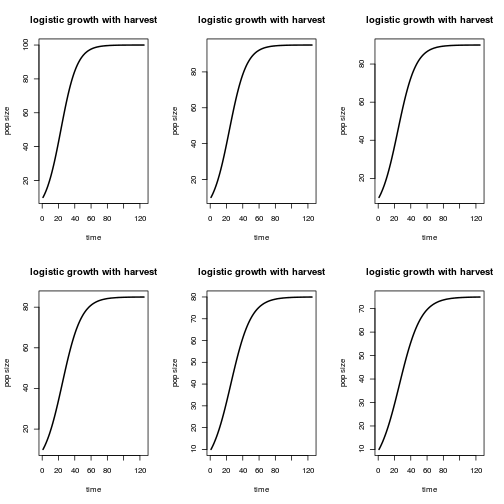
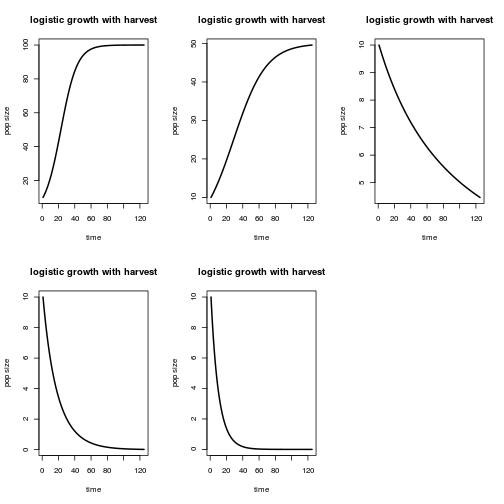
cleaning up 18 Sept attempt on harvest problem

diff --git a/lloyd_smith/exercises.md b/lloyd_smith/exercises.md
@@ -386,7 +386,7 @@ Assess sensitivity of the model to values of `h`:
 
 ```r
 parameters <- c(rr = 0.1, kk = 100, hh = 0.01 )
-
+hhs <- seq(from = 0, to = 0.2, by = 0.05)
 par(mfrow = c(2,3))
 for (ii in hhs) {
   parameters["hh"] <- ii
@@ -396,7 +396,7 @@ for (ii in hhs) {
 }
 ```
 
-![plot of chunk unnamed-chunk-12](figure/unnamed-chunk-12-1.png) ![plot of chunk unnamed-chunk-12](figure/unnamed-chunk-12-2.png) ![plot of chunk unnamed-chunk-12](figure/unnamed-chunk-12-3.png) ![plot of chunk unnamed-chunk-12](figure/unnamed-chunk-12-4.png) ![plot of chunk unnamed-chunk-12](figure/unnamed-chunk-12-5.png) ![plot of chunk unnamed-chunk-12](figure/unnamed-chunk-12-6.png) ![plot of chunk unnamed-chunk-12](figure/unnamed-chunk-12-7.png) 
+![plot of chunk unnamed-chunk-12](figure/unnamed-chunk-12-1.png) 
 
 
 
@@ -405,23 +405,18 @@ for (ii in hhs) {
 sensitiv_harvest <- function(hh){
   parameters["hh"] <- hh
   temp <- lsoda(init, tseq, logGrowthHarvestODE, parameters)
-  plot(y = temp[, 2], x = temp[, 1], main = "logistic growth with harvest", lwd = 2, type = "l", ylab = "pop size", xlab = "time")
+  # plot(y = temp[, 2], x = temp[, 1], main = "logistic growth with harvest", lwd = 2, type = "l", ylab = "pop size", xlab = "time")
   return(temp[,2])
 }
 
 # make a vector of hhs and run model over it
-hhs <- seq(from = 0, to = 0.2, by = 0.005)
 sensitivity_to_h <- sapply(hhs, function(x) sensitiv_harvest(x))
-```
 
-![plot of chunk unnamed-chunk-13](figure/unnamed-chunk-13-1.png) ![plot of chunk unnamed-chunk-13](figure/unnamed-chunk-13-2.png) ![plot of chunk unnamed-chunk-13](figure/unnamed-chunk-13-3.png) ![plot of chunk unnamed-chunk-13](figure/unnamed-chunk-13-4.png) ![plot of chunk unnamed-chunk-13](figure/unnamed-chunk-13-5.png) ![plot of chunk unnamed-chunk-13](figure/unnamed-chunk-13-6.png) ![plot of chunk unnamed-chunk-13](figure/unnamed-chunk-13-7.png) ![plot of chunk unnamed-chunk-13](figure/unnamed-chunk-13-8.png) ![plot of chunk unnamed-chunk-13](figure/unnamed-chunk-13-9.png) ![plot of chunk unnamed-chunk-13](figure/unnamed-chunk-13-10.png) ![plot of chunk unnamed-chunk-13](figure/unnamed-chunk-13-11.png) ![plot of chunk unnamed-chunk-13](figure/unnamed-chunk-13-12.png) ![plot of chunk unnamed-chunk-13](figure/unnamed-chunk-13-13.png) ![plot of chunk unnamed-chunk-13](figure/unnamed-chunk-13-14.png) ![plot of chunk unnamed-chunk-13](figure/unnamed-chunk-13-15.png) ![plot of chunk unnamed-chunk-13](figure/unnamed-chunk-13-16.png) ![plot of chunk unnamed-chunk-13](figure/unnamed-chunk-13-17.png) ![plot of chunk unnamed-chunk-13](figure/unnamed-chunk-13-18.png) ![plot of chunk unnamed-chunk-13](figure/unnamed-chunk-13-19.png) ![plot of chunk unnamed-chunk-13](figure/unnamed-chunk-13-20.png) ![plot of chunk unnamed-chunk-13](figure/unnamed-chunk-13-21.png) ![plot of chunk unnamed-chunk-13](figure/unnamed-chunk-13-22.png) ![plot of chunk unnamed-chunk-13](figure/unnamed-chunk-13-23.png) ![plot of chunk unnamed-chunk-13](figure/unnamed-chunk-13-24.png) ![plot of chunk unnamed-chunk-13](figure/unnamed-chunk-13-25.png) ![plot of chunk unnamed-chunk-13](figure/unnamed-chunk-13-26.png) ![plot of chunk unnamed-chunk-13](figure/unnamed-chunk-13-27.png) ![plot of chunk unnamed-chunk-13](figure/unnamed-chunk-13-28.png) ![plot of chunk unnamed-chunk-13](figure/unnamed-chunk-13-29.png) ![plot of chunk unnamed-chunk-13](figure/unnamed-chunk-13-30.png) ![plot of chunk unnamed-chunk-13](figure/unnamed-chunk-13-31.png) ![plot of chunk unnamed-chunk-13](figure/unnamed-chunk-13-32.png) ![plot of chunk unnamed-chunk-13](figure/unnamed-chunk-13-33.png) ![plot of chunk unnamed-chunk-13](figure/unnamed-chunk-13-34.png) ![plot of chunk unnamed-chunk-13](figure/unnamed-chunk-13-35.png) ![plot of chunk unnamed-chunk-13](figure/unnamed-chunk-13-36.png) ![plot of chunk unnamed-chunk-13](figure/unnamed-chunk-13-37.png) ![plot of chunk unnamed-chunk-13](figure/unnamed-chunk-13-38.png) ![plot of chunk unnamed-chunk-13](figure/unnamed-chunk-13-39.png) ![plot of chunk unnamed-chunk-13](figure/unnamed-chunk-13-40.png) ![plot of chunk unnamed-chunk-13](figure/unnamed-chunk-13-41.png) 
-
-```r
 plot(y = sensitivity_to_h[nrow(sensitivity_to_h), ], x = hhs, xlab = "h", ylab = "final population size", main = paste("r =", parameters["rr"]), type = "l", lwd = 4)
 ```
 
-![plot of chunk unnamed-chunk-13](figure/unnamed-chunk-13-42.png) 
-This makes sense - as the proportion of individuals harvested increases, the final population size decreases. 
+![plot of chunk unnamed-chunk-13](figure/unnamed-chunk-13-1.png) 
+This makes sense - as the proportion of individuals harvested increases, the final population size decreases. When h > r, the population will go to zero because more is always being harvested than the maximum possible growth rate. 
 
 
 Algebraicly, dN/dT should be 0 when `h = r(1-N/K)`. Let's confirm that this is true. **NOTE: haven't gotten anywhere with this either. Don't bother for now.**
@@ -432,48 +427,13 @@ head(sensitivity_to_h)
 ```
 
 ```
-##          [,1]     [,2]     [,3]     [,4]     [,5]     [,6]     [,7]
-## [1,] 10.00000 10.00000 10.00000 10.00000 10.00000 10.00000 10.00000
-## [2,] 10.93669 10.88243 10.82845 10.77472 10.72127 10.66807 10.61514
-## [3,] 11.94945 11.83187 11.71544 11.60015 11.48598 11.37293 11.26099
-## [4,] 13.04227 12.85150 12.66349 12.47820 12.29558 12.11561 11.93824
-## [5,] 14.21890 13.94428 13.67486 13.41057 13.15129 12.89695 12.64746
-## [6,] 15.48279 15.11287 14.75159 14.39877 14.05419 13.71770 13.38910
-##          [,8]     [,9]    [,10]    [,11]    [,12]    [,13]    [,14]
-## [1,] 10.00000 10.00000 10.00000 10.00000 10.00000 10.00000 10.00000
-## [2,] 10.56246 10.51006 10.45790 10.40601 10.35437 10.30299 10.25186
-## [3,] 11.15014 11.04038 10.93168 10.82404 10.71744 10.61191 10.50740
-## [4,] 11.76345 11.59118 11.42140 11.25408 11.08918 10.92667 10.76653
-## [5,] 12.40272 12.16264 11.92714 11.69611 11.46950 11.24722 11.02918
-## [6,] 13.06820 12.75485 12.44886 12.15005 11.85830 11.57342 11.29526
-##         [,15]    [,16]    [,17]    [,18] [,19]     [,20]     [,21]
-## [1,] 10.00000 10.00000 10.00000 10.00000    10 10.000000 10.000000
-## [2,] 10.20099 10.15036 10.09999 10.04987    10  9.950371  9.900986
-## [3,] 10.40391 10.30144 10.19995 10.09949    10  9.901476  9.803918
-## [4,] 10.60871 10.45318 10.29988 10.14886    10  9.853300  9.708727
-## [5,] 10.81532 10.60554 10.39976 10.19796    10  9.805828  9.615376
-## [6,] 11.02366 10.75848 10.49955 10.24680    10  9.759045  9.523801
-##          [,22]     [,23]     [,24]     [,25]     [,26]     [,27]     [,28]
-## [1,] 10.000000 10.000000 10.000000 10.000000 10.000000 10.000000 10.000000
-## [2,]  9.851847  9.802950  9.754303  9.705885  9.657709  9.609773  9.562077
-## [3,]  9.707309  9.611653  9.516937  9.423150  9.330282  9.238318  9.147255
-## [4,]  9.566266  9.425874  9.287524  9.151186  9.016832  8.884429  8.753953
-## [5,]  9.428583  9.245374  9.065682  8.889441  8.716586  8.547049  8.380771
-## [6,]  9.294146  9.069945  8.851070  8.637401  8.428815  8.225189  8.026413
-##          [,29]     [,30]     [,31]     [,32]     [,33]     [,34]     [,35]
-## [1,] 10.000000 10.000000 10.000000 10.000000 10.000000 10.000000 10.000000
-## [2,]  9.514617  9.467393  9.420402  9.373645  9.327119  9.280822  9.234754
-## [3,]  9.057085  8.967798  8.879385  8.791839  8.705151  8.619313  8.534316
-## [4,]  8.625376  8.498670  8.373810  8.250768  8.129518  8.010035  7.892293
-## [5,]  8.217690  8.057746  7.900880  7.747034  7.596152  7.448177  7.303054
-## [6,]  7.832374  7.642963  7.458070  7.277592  7.101425  6.929471  6.761628
-##          [,36]     [,37]     [,38]     [,39]     [,40]     [,41]
-## [1,] 10.000000 10.000000 10.000000 10.000000 10.000000 10.000000
-## [2,]  9.188914  9.143299  9.097910  9.052746  9.007805  8.963087
-## [3,]  8.450154  8.366814  8.284292  8.202580  8.121669  8.041551
-## [4,]  7.776267  7.661933  7.549266  7.438244  7.328840  7.221033
-## [5,]  7.160729  7.021150  6.884265  6.750023  6.618372  6.489265
-## [6,]  6.597801  6.437897  6.281822  6.129488  5.980807  5.835691
+##          [,1]     [,2]      [,3]      [,4]      [,5]
+## [1,] 10.00000 10.00000 10.000000 10.000000 10.000000
+## [2,] 10.93669 10.40601  9.900986  9.420402  8.963087
+## [3,] 11.94945 10.82404  9.803918  8.879385  8.041551
+## [4,] 13.04227 11.25408  9.708727  8.373810  7.221033
+## [5,] 14.21890 11.69611  9.615376  7.900880  6.489265
+## [6,] 15.48279 12.15005  9.523801  7.458070  5.835691
 ```
 
 ```r
@@ -485,10 +445,8 @@ dNdT_v_h <- function(vec) {
   x_axis_values <- parameters["rr"]*(1-vec/parameters["kk"])
   x_axis_values <- x_axis_values[2:length(x_axis_values)]
   
-  plot(x = x_axis_values, y = dNs)
+  # plot(x = x_axis_values, y = dNs)
 }
 
 placeholder <- apply(sensitivity_to_h, 1, dNdT_v_h)
 ```
-
-![plot of chunk unnamed-chunk-14](figure/unnamed-chunk-14-1.png) ![plot of chunk unnamed-chunk-14](figure/unnamed-chunk-14-2.png) ![plot of chunk unnamed-chunk-14](figure/unnamed-chunk-14-3.png) ![plot of chunk unnamed-chunk-14](figure/unnamed-chunk-14-4.png) ![plot of chunk unnamed-chunk-14](figure/unnamed-chunk-14-5.png) ![plot of chunk unnamed-chunk-14](figure/unnamed-chunk-14-6.png) ![plot of chunk unnamed-chunk-14](figure/unnamed-chunk-14-7.png) ![plot of chunk unnamed-chunk-14](figure/unnamed-chunk-14-8.png) ![plot of chunk unnamed-chunk-14](figure/unnamed-chunk-14-9.png) ![plot of chunk unnamed-chunk-14](figure/unnamed-chunk-14-10.png) ![plot of chunk unnamed-chunk-14](figure/unnamed-chunk-14-11.png) ![plot of chunk unnamed-chunk-14](figure/unnamed-chunk-14-12.png) ![plot of chunk unnamed-chunk-14](figure/unnamed-chunk-14-13.png) ![plot of chunk unnamed-chunk-14](figure/unnamed-chunk-14-14.png) ![plot of chunk unnamed-chunk-14](figure/unnamed-chunk-14-15.png) ![plot of chunk unnamed-chunk-14](figure/unnamed-chunk-14-16.png) ![plot of chunk unnamed-chunk-14](figure/unnamed-chunk-14-17.png) ![plot of chunk unnamed-chunk-14](figure/unnamed-chunk-14-18.png) ![plot of chunk unnamed-chunk-14](figure/unnamed-chunk-14-19.png) ![plot of chunk unnamed-chunk-14](figure/unnamed-chunk-14-20.png) ![plot of chunk unnamed-chunk-14](figure/unnamed-chunk-14-21.png) ![plot of chunk unnamed-chunk-14](figure/unnamed-chunk-14-22.png) ![plot of chunk unnamed-chunk-14](figure/unnamed-chunk-14-23.png) ![plot of chunk unnamed-chunk-14](figure/unnamed-chunk-14-24.png) ![plot of chunk unnamed-chunk-14](figure/unnamed-chunk-14-25.png) ![plot of chunk unnamed-chunk-14](figure/unnamed-chunk-14-26.png) ![plot of chunk unnamed-chunk-14](figure/unnamed-chunk-14-27.png) ![plot of chunk unnamed-chunk-14](figure/unnamed-chunk-14-28.png) ![plot of chunk unnamed-chunk-14](figure/unnamed-chunk-14-29.png) ![plot of chunk unnamed-chunk-14](figure/unnamed-chunk-14-30.png) ![plot of chunk unnamed-chunk-14](figure/unnamed-chunk-14-31.png) ![plot of chunk unnamed-chunk-14](figure/unnamed-chunk-14-32.png) ![plot of chunk unnamed-chunk-14](figure/unnamed-chunk-14-33.png) ![plot of chunk unnamed-chunk-14](figure/unnamed-chunk-14-34.png) ![plot of chunk unnamed-chunk-14](figure/unnamed-chunk-14-35.png) ![plot of chunk unnamed-chunk-14](figure/unnamed-chunk-14-36.png) ![plot of chunk unnamed-chunk-14](figure/unnamed-chunk-14-37.png) ![plot of chunk unnamed-chunk-14](figure/unnamed-chunk-14-38.png) ![plot of chunk unnamed-chunk-14](figure/unnamed-chunk-14-39.png) ![plot of chunk unnamed-chunk-14](figure/unnamed-chunk-14-40.png) ![plot of chunk unnamed-chunk-14](figure/unnamed-chunk-14-41.png) ![plot of chunk unnamed-chunk-14](figure/unnamed-chunk-14-42.png) ![plot of chunk unnamed-chunk-14](figure/unnamed-chunk-14-43.png) ![plot of chunk unnamed-chunk-14](figure/unnamed-chunk-14-44.png) ![plot of chunk unnamed-chunk-14](figure/unnamed-chunk-14-45.png) ![plot of chunk unnamed-chunk-14](figure/unnamed-chunk-14-46.png) ![plot of chunk unnamed-chunk-14](figure/unnamed-chunk-14-47.png) ![plot of chunk unnamed-chunk-14](figure/unnamed-chunk-14-48.png) ![plot of chunk unnamed-chunk-14](figure/unnamed-chunk-14-49.png) ![plot of chunk unnamed-chunk-14](figure/unnamed-chunk-14-50.png) ![plot of chunk unnamed-chunk-14](figure/unnamed-chunk-14-51.png) ![plot of chunk unnamed-chunk-14](figure/unnamed-chunk-14-52.png) ![plot of chunk unnamed-chunk-14](figure/unnamed-chunk-14-53.png) ![plot of chunk unnamed-chunk-14](figure/unnamed-chunk-14-54.png) ![plot of chunk unnamed-chunk-14](figure/unnamed-chunk-14-55.png) ![plot of chunk unnamed-chunk-14](figure/unnamed-chunk-14-56.png) ![plot of chunk unnamed-chunk-14](figure/unnamed-chunk-14-57.png) ![plot of chunk unnamed-chunk-14](figure/unnamed-chunk-14-58.png) ![plot of chunk unnamed-chunk-14](figure/unnamed-chunk-14-59.png) ![plot of chunk unnamed-chunk-14](figure/unnamed-chunk-14-60.png) ![plot of chunk unnamed-chunk-14](figure/unnamed-chunk-14-61.png) ![plot of chunk unnamed-chunk-14](figure/unnamed-chunk-14-62.png) ![plot of chunk unnamed-chunk-14](figure/unnamed-chunk-14-63.png) ![plot of chunk unnamed-chunk-14](figure/unnamed-chunk-14-64.png) ![plot of chunk unnamed-chunk-14](figure/unnamed-chunk-14-65.png) ![plot of chunk unnamed-chunk-14](figure/unnamed-chunk-14-66.png) ![plot of chunk unnamed-chunk-14](figure/unnamed-chunk-14-67.png) ![plot of chunk unnamed-chunk-14](figure/unnamed-chunk-14-68.png) ![plot of chunk unnamed-chunk-14](figure/unnamed-chunk-14-69.png) ![plot of chunk unnamed-chunk-14](figure/unnamed-chunk-14-70.png) ![plot of chunk unnamed-chunk-14](figure/unnamed-chunk-14-71.png) ![plot of chunk unnamed-chunk-14](figure/unnamed-chunk-14-72.png) ![plot of chunk unnamed-chunk-14](figure/unnamed-chunk-14-73.png) ![plot of chunk unnamed-chunk-14](figure/unnamed-chunk-14-74.png) ![plot of chunk unnamed-chunk-14](figure/unnamed-chunk-14-75.png) ![plot of chunk unnamed-chunk-14](figure/unnamed-chunk-14-76.png) ![plot of chunk unnamed-chunk-14](figure/unnamed-chunk-14-77.png) ![plot of chunk unnamed-chunk-14](figure/unnamed-chunk-14-78.png) ![plot of chunk unnamed-chunk-14](figure/unnamed-chunk-14-79.png) ![plot of chunk unnamed-chunk-14](figure/unnamed-chunk-14-80.png) ![plot of chunk unnamed-chunk-14](figure/unnamed-chunk-14-81.png) ![plot of chunk unnamed-chunk-14](figure/unnamed-chunk-14-82.png) ![plot of chunk unnamed-chunk-14](figure/unnamed-chunk-14-83.png) ![plot of chunk unnamed-chunk-14](figure/unnamed-chunk-14-84.png) ![plot of chunk unnamed-chunk-14](figure/unnamed-chunk-14-85.png) ![plot of chunk unnamed-chunk-14](figure/unnamed-chunk-14-86.png) ![plot of chunk unnamed-chunk-14](figure/unnamed-chunk-14-87.png) ![plot of chunk unnamed-chunk-14](figure/unnamed-chunk-14-88.png) ![plot of chunk unnamed-chunk-14](figure/unnamed-chunk-14-89.png) ![plot of chunk unnamed-chunk-14](figure/unnamed-chunk-14-90.png) ![plot of chunk unnamed-chunk-14](figure/unnamed-chunk-14-91.png) ![plot of chunk unnamed-chunk-14](figure/unnamed-chunk-14-92.png) ![plot of chunk unnamed-chunk-14](figure/unnamed-chunk-14-93.png) ![plot of chunk unnamed-chunk-14](figure/unnamed-chunk-14-94.png) ![plot of chunk unnamed-chunk-14](figure/unnamed-chunk-14-95.png) ![plot of chunk unnamed-chunk-14](figure/unnamed-chunk-14-96.png) ![plot of chunk unnamed-chunk-14](figure/unnamed-chunk-14-97.png) ![plot of chunk unnamed-chunk-14](figure/unnamed-chunk-14-98.png) ![plot of chunk unnamed-chunk-14](figure/unnamed-chunk-14-99.png) ![plot of chunk unnamed-chunk-14](figure/unnamed-chunk-14-100.png) ![plot of chunk unnamed-chunk-14](figure/unnamed-chunk-14-101.png) ![plot of chunk unnamed-chunk-14](figure/unnamed-chunk-14-102.png) ![plot of chunk unnamed-chunk-14](figure/unnamed-chunk-14-103.png) ![plot of chunk unnamed-chunk-14](figure/unnamed-chunk-14-104.png) ![plot of chunk unnamed-chunk-14](figure/unnamed-chunk-14-105.png) ![plot of chunk unnamed-chunk-14](figure/unnamed-chunk-14-106.png) ![plot of chunk unnamed-chunk-14](figure/unnamed-chunk-14-107.png) ![plot of chunk unnamed-chunk-14](figure/unnamed-chunk-14-108.png) ![plot of chunk unnamed-chunk-14](figure/unnamed-chunk-14-109.png) ![plot of chunk unnamed-chunk-14](figure/unnamed-chunk-14-110.png) ![plot of chunk unnamed-chunk-14](figure/unnamed-chunk-14-111.png) ![plot of chunk unnamed-chunk-14](figure/unnamed-chunk-14-112.png) ![plot of chunk unnamed-chunk-14](figure/unnamed-chunk-14-113.png) ![plot of chunk unnamed-chunk-14](figure/unnamed-chunk-14-114.png) ![plot of chunk unnamed-chunk-14](figure/unnamed-chunk-14-115.png) ![plot of chunk unnamed-chunk-14](figure/unnamed-chunk-14-116.png) ![plot of chunk unnamed-chunk-14](figure/unnamed-chunk-14-117.png) ![plot of chunk unnamed-chunk-14](figure/unnamed-chunk-14-118.png) ![plot of chunk unnamed-chunk-14](figure/unnamed-chunk-14-119.png) ![plot of chunk unnamed-chunk-14](figure/unnamed-chunk-14-120.png) ![plot of chunk unnamed-chunk-14](figure/unnamed-chunk-14-121.png) ![plot of chunk unnamed-chunk-14](figure/unnamed-chunk-14-122.png) ![plot of chunk unnamed-chunk-14](figure/unnamed-chunk-14-123.png) ![plot of chunk unnamed-chunk-14](figure/unnamed-chunk-14-124.png) ![plot of chunk unnamed-chunk-14](figure/unnamed-chunk-14-125.png) 
